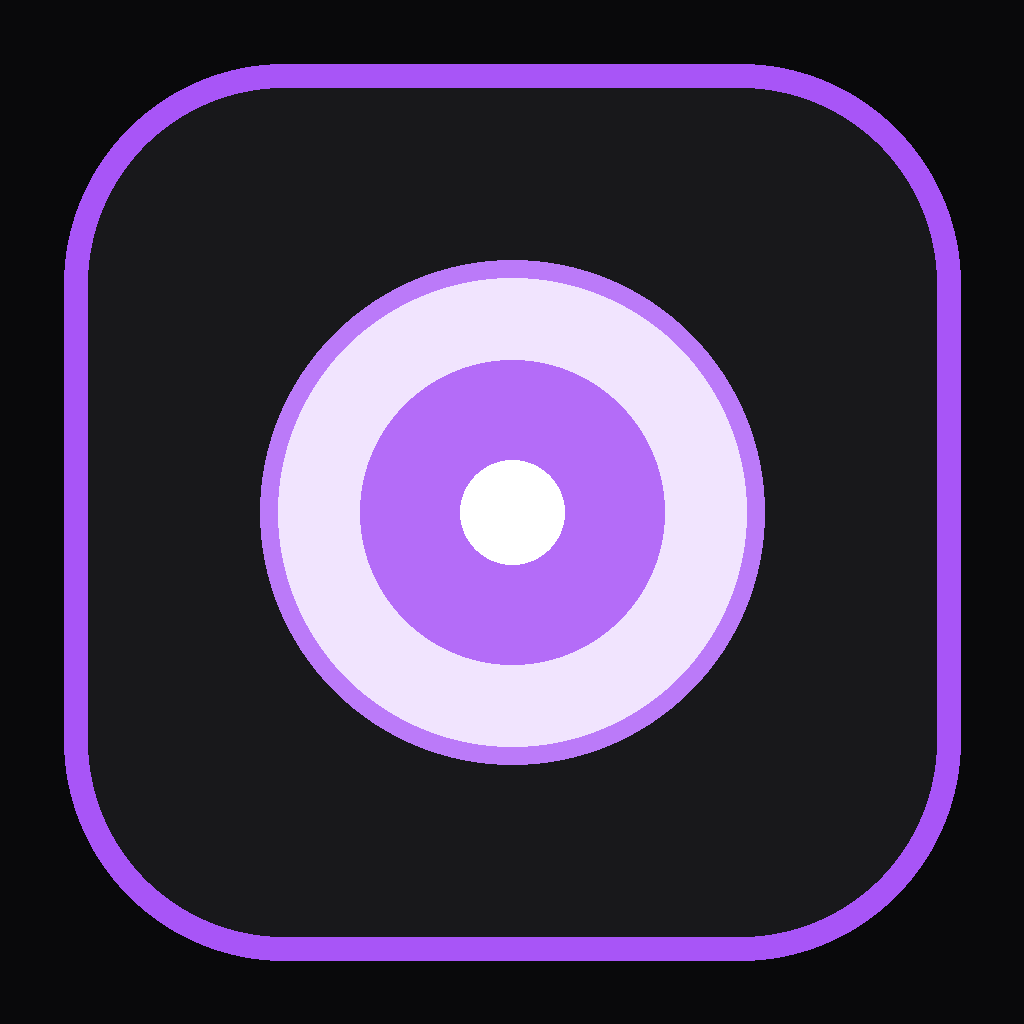
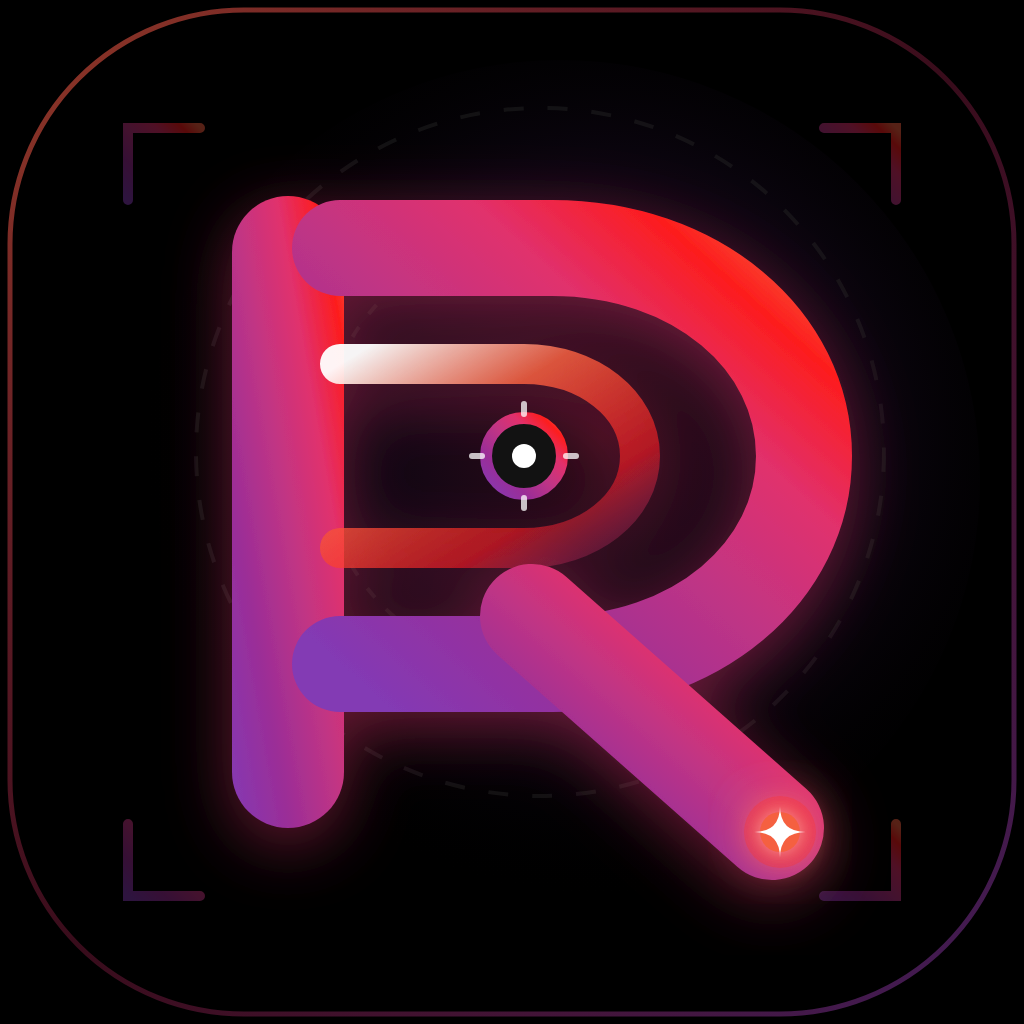
feat(branding): introduce bespoke RADAR emblem fusing OCR viewfinder, signal pulses, and opportunity beacon

diff --git a/src/components/RadarLogo.jsx b/src/components/RadarLogo.jsx
@@ -1,0 +1,145 @@
+import React from 'react'
+
+export function RadarLogo({ size = 28, className = '', style = {} }) {
+  const rx = Math.round(size * 0.238)
+
+  return (
+    <svg
+      xmlns="http://www.w3.org/2000/svg"
+      viewBox="0 0 512 512"
+      width={size}
+      height={size}
+      className={className}
+      style={{
+        display: 'block',
+        borderRadius: `${rx}px`,
+        flexShrink: 0,
+        ...style,
+      }}
+    >
+      <defs>
+        {/* Master Signature Instagram Gradient */}
+        <linearGradient id="rl-brand-ig" x1="0%" y1="100%" x2="100%" y2="0%">
+          <stop offset="0%" stopColor="#833ab4" />
+          <stop offset="26%" stopColor="#9b2d97" />
+          <stop offset="50%" stopColor="#c13584" />
+          <stop offset="70%" stopColor="#e1306c" />
+          <stop offset="88%" stopColor="#fd1d1d" />
+          <stop offset="100%" stopColor="#f56040" />
+        </linearGradient>
+
+        {/* Inner Echo Pulse Wave Gradient */}
+        <linearGradient id="rl-pulse-grad" x1="0%" y1="0%" x2="100%" y2="100%">
+          <stop offset="0%" stopColor="#ffffff" stopOpacity="0.95" />
+          <stop offset="35%" stopColor="#f56040" stopOpacity="0.85" />
+          <stop offset="75%" stopColor="#fd1d1d" stopOpacity="0.6" />
+          <stop offset="100%" stopColor="#c13584" stopOpacity="0.2" />
+        </linearGradient>
+
+        {/* Squircle Chamfer Border Gradient */}
+        <linearGradient id="rl-border-ig" x1="0%" y1="0%" x2="100%" y2="100%">
+          <stop offset="0%" stopColor="#f56040" stopOpacity="0.6" />
+          <stop offset="50%" stopColor="#e1306c" stopOpacity="0.25" />
+          <stop offset="100%" stopColor="#833ab4" stopOpacity="0.5" />
+        </linearGradient>
+
+        {/* Ambient Glow behind R */}
+        <radialGradient id="rl-ambient-radar" cx="55%" cy="45%" r="55%">
+          <stop offset="0%" stopColor="#e1306c" stopOpacity="0.22" />
+          <stop offset="60%" stopColor="#833ab4" stopOpacity="0.08" />
+          <stop offset="100%" stopColor="#000000" stopOpacity="0" />
+        </radialGradient>
+
+        {/* Neon Drop Shadow for depth */}
+        <filter id="rl-radar-shadow" x="-20%" y="-20%" width="140%" height="140%">
+          <feDropShadow dx="0" dy="8" stdDeviation="16" floodColor="#e1306c" floodOpacity="0.45" />
+        </filter>
+
+        {/* Opportunity Beacon Flare */}
+        <filter id="rl-beacon-flare" x="-50%" y="-50%" width="200%" height="200%">
+          <feGaussianBlur stdDeviation="5" result="b1" />
+          <feGaussianBlur stdDeviation="12" result="b2" />
+          <feMerge>
+            <feMergeNode in="b2" />
+            <feMergeNode in="b1" />
+            <feMergeNode in="SourceGraphic" />
+          </feMerge>
+        </filter>
+      </defs>
+
+      {/* Pitch Black OLED Housing */}
+      <rect width="512" height="512" rx="122" fill="#000000" />
+      <rect x="5" y="5" width="502" height="502" rx="117" fill="none" stroke="url(#rl-border-ig)" strokeWidth="2.5" />
+
+      {/* Ambient Radar Aura */}
+      <circle cx="280" cy="240" r="210" fill="url(#rl-ambient-radar)" />
+
+      {/* Screen Capture / OCR Viewfinder Frame (Targeting Corners) */}
+      <g stroke="url(#rl-brand-ig)" strokeWidth="5" strokeLinecap="round" fill="none" opacity="0.35">
+        <path d="M 64 100 V 64 H 100" />
+        <path d="M 412 64 H 448 V 100" />
+        <path d="M 64 412 V 448 H 100" />
+        <path d="M 412 448 H 448 V 412" />
+      </g>
+
+      {/* Concentric Radar Ripple Echoes (Faint Background Signal Waveforms) */}
+      <g fill="none" stroke="#262626" opacity="0.45">
+        <circle cx="270" cy="226" r="110" strokeWidth="2" strokeDasharray="6 8" />
+        <circle cx="270" cy="226" r="172" strokeWidth="2" strokeDasharray="10 12" />
+      </g>
+
+      {/* The Master Iconic "R" Signal Emblem */}
+      <g filter="url(#rl-radar-shadow)">
+        {/* 1. Vertical Spine (The Data Capture / Interceptor Stream) */}
+        <rect x="116" y="98" width="56" height="316" rx="28" fill="url(#rl-brand-ig)" />
+
+        {/* 2. Concentric Radar Outer Wave (Lobe of R) */}
+        <path
+          d="M 170 124 H 276 C 348 124 402 170 402 228 C 402 286 348 332 276 332 H 170"
+          fill="none"
+          stroke="url(#rl-brand-ig)"
+          strokeWidth="48"
+          strokeLinecap="round"
+          strokeLinejoin="round"
+        />
+
+        {/* 3. Concentric Radar Inner Wave (Echo Pulse of R) */}
+        <path
+          d="M 170 182 H 262 C 294 182 320 202 320 228 C 320 254 294 274 262 274 H 170"
+          fill="none"
+          stroke="url(#rl-pulse-grad)"
+          strokeWidth="20"
+          strokeLinecap="round"
+          strokeLinejoin="round"
+        />
+
+        {/* 4. Diagonal Laser Interceptor / Career Opportunity Sweep Beam (Kick of R) */}
+        <path
+          d="M 266 308 L 386 414"
+          fill="none"
+          stroke="url(#rl-brand-ig)"
+          strokeWidth="52"
+          strokeLinecap="round"
+        />
+      </g>
+
+      {/* 5. Optical OCR Aperture / Focal Intelligence Core inside the Loop */}
+      <g transform="translate(262, 228)">
+        <circle cx="0" cy="0" r="19" fill="#121212" stroke="url(#rl-brand-ig)" strokeWidth="6" />
+        <circle cx="0" cy="0" r="6" fill="#ffffff" />
+        <line x1="0" y1="-26" x2="0" y2="-21" stroke="#ffffff" strokeWidth="3" strokeLinecap="round" opacity="0.75" />
+        <line x1="0" y1="21" x2="0" y2="26" stroke="#ffffff" strokeWidth="3" strokeLinecap="round" opacity="0.75" />
+        <line x1="-26" y1="0" x2="-21" y2="0" stroke="#ffffff" strokeWidth="3" strokeLinecap="round" opacity="0.75" />
+        <line x1="21" y1="0" x2="26" y2="0" stroke="#ffffff" strokeWidth="3" strokeLinecap="round" opacity="0.75" />
+      </g>
+
+      {/* 6. Locked Opportunity Beacon (Detected Target at Apex of Interceptor Kick) */}
+      <g transform="translate(390, 416)" filter="url(#rl-beacon-flare)">
+        <circle cx="0" cy="0" r="18" fill="#fd1d1d" fillOpacity="0.35" />
+        <circle cx="0" cy="0" r="10" fill="#f56040" />
+        <path d="M 0 -13 Q 0 0 -13 0 Q 0 0 0 13 Q 0 0 13 0 Q 0 0 0 -13 Z" fill="#ffffff" />
+        <circle cx="0" cy="0" r="3" fill="#ffffff" />
+      </g>
+    </svg>
+  )
+}

diff --git a/src/components/Sidebar.jsx b/src/components/Sidebar.jsx
@@ -25,6 +25,7 @@ import {
   Plus,
   Radio,
 } from 'lucide-react'
+import { RadarLogo } from './RadarLogo.jsx'
 import { CATEGORIES } from '../data/categories.js'
 
 const CATEGORY_ICONS = {
@@ -84,7 +85,7 @@ export function Sidebar({
       <div className="sidebar-header">
         <div className="brand-badge" onClick={() => onNavigate('command-center')} style={{ cursor: 'pointer' }}>
           <div className="brand-icon-box">
-            <Radio size={14} color="#ffffff" />
+            <RadarLogo size={28} />
           </div>
           <div style={{ display: 'flex', flexDirection: 'column', lineHeight: 1.15 }}>
             <span className="brand-radar-text">RADAR</span>

diff --git a/src/style.css b/src/style.css
@@ -170,16 +170,16 @@ body {
 }
 
 .brand-icon-box {
-  width: 26px;
-  height: 26px;
-  background: var(--ig-gradient);
+  width: 28px;
+  height: 28px;
+  background: transparent;
   border: none;
-  border-radius: 8px;
+  border-radius: 7px;
   display: flex;
   align-items: center;
   justify-content: center;
-  color: #ffffff;
-  box-shadow: 0 2px 10px rgba(225, 48, 108, 0.45);
+  box-shadow: 0 2px 10px rgba(225, 48, 108, 0.35);
+  flex-shrink: 0;
 }
 
 .brand-radar-text {
